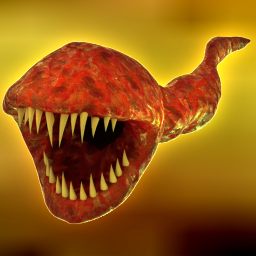
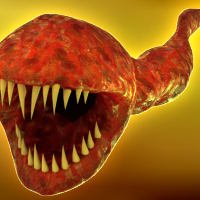
ポリゴンに画像を張り付けるまで 長かった(~5.13.2)

diff --git a/Scene1.h b/Scene1.h
@@ -44,7 +44,15 @@ public:
 			"TEXCOORD", DX12Config::VertexLayoutFormat::R32G32_FLOAT, 0,
 			DX12Config::VertexLayoutInputClassification::INPUT_CLASSIFICATION_PER_VERTEX_DATA, 0
 		));
-		mRootSignature = _game->mdx12.CreateRootSignature();
+		mTextureDescHeap = _game->mdx12.CreateDescriptorHeap(
+			DX12Config::DescriptorHeapType::SRV, DX12Config::ShaderVisibility::SHADER_VISIBLE, 1
+		);
+		mTexReadResource = _game->mdx12.LoadTexture(L"textest.png", mTextureDescHeap, 0);
+		DX12DescriptorRange range1(1, DX12Config::DescriptorHeapType::SRV, 0);
+		DX12RootParameter rootparam;
+		rootparam.mShaderVisibility = DX12Config::ShaderVisibility::SHADER_VISIBLE;
+		rootparam.mDescRanges.push_back(range1);
+		mRootSignature = _game->mdx12.CreateRootSignature(rootparam);
 		mPipeline = _game->mdx12.CreateGraphicsPipeline(
 			mVS, mPS, mLayout, DX12Config::PrimitiveTopologyType::TRIANGLESTRIP, 1, mRootSignature
 		);
@@ -72,6 +80,8 @@ public:
 		Log::OutputTrivial("Scene1 UniqueOutput");
 		mGame.mdx12.SetGraphicsPipeline(mPipeline);
 		mGame.mdx12.SetRootSignature(mRootSignature);
+		mGame.mdx12.SetDescriptorHeap(mTextureDescHeap);
+		mGame.mdx12.SetGraphicsRootDescriptorTable(0, mTextureDescHeap, 0);
 		mGame.mdx12.SetPrimitiveTopology(DX12Config::PrimitiveTopologyType::TRIANGLESTRIP);
 		mGame.mdx12.SetVertexBuffers(mResource, 0, sizeof(float) * 5*4, sizeof(float) * 5);
 		mGame.mdx12.SetIndexBuffers(mIndeces, 6);
@@ -93,6 +103,8 @@ private:
 	boost::shared_ptr<DX12ShaderObject> mVS, mPS;
 	boost::shared_ptr<DX12GraphicsPipeline> mPipeline;
 	boost::shared_ptr<DX12RootSignature> mRootSignature;
+	boost::shared_ptr<DX12DescriptorHeap> mTextureDescHeap;
+	boost::shared_ptr<DX12Resource> mTexReadResource;
 	DX12VertexLayout mLayout;
 	struct VertexLayout {
 	public:

diff --git a/DX12DescriptorHeap.cpp b/DX12DescriptorHeap.cpp
@@ -1,6 +1,7 @@
 #include "DX12DescriptorHeap.h"
 #include "DX12Device.h"
 #include "DX12Resource.h"
+#include "DX12CmdList.h"
 
 DX12DescriptorHeap::DX12DescriptorHeap(DX12Config::DescriptorHeapType _type, DX12Config::ShaderVisibility _vis, unsigned int _num, DX12Device* _device)
 	:mNum(_num), mType(_type), mShaderVisibility(_vis)
@@ -21,6 +22,29 @@ DX12DescriptorHeap::~DX12DescriptorHeap()
 D3D12_CPU_DESCRIPTOR_HANDLE DX12DescriptorHeap::GetCPUDescriptorHandle(unsigned int _n)
 {
 	auto handle = mDescHeap->GetCPUDescriptorHandleForHeapStart();
+	handle.ptr += _n * mDescriptorHandleSize;
+	return handle;
+}
+
+void DX12DescriptorHeap::SetDescriptorHeap(DX12CmdList* _cmdlist)
+{
+	ID3D12DescriptorHeap* descHeapArray = { mDescHeap.Get() };
+	_cmdlist->GetCmdList()->SetDescriptorHeaps(1,&descHeapArray);
+}
+
+const DX12Config::DescriptorHeapType DX12DescriptorHeap::GetDescriptorHeapType()
+{
+	return mType;
+}
+
+const DX12Config::ShaderVisibility DX12DescriptorHeap::GetShaderVisibility()
+{
+	return mShaderVisibility;
+}
+
+D3D12_GPU_DESCRIPTOR_HANDLE DX12DescriptorHeap::GetGPUDescriptorHandle(unsigned int _n)
+{
+	auto handle = mDescHeap->GetGPUDescriptorHandleForHeapStart();
 	handle.ptr += _n * mDescriptorHandleSize;
 	return handle;
 }

diff --git a/DX12RootSignature.h b/DX12RootSignature.h
@@ -1,14 +1,18 @@
 #pragma once
 
 #include "DX12CommonInclude.h"
+#include "DX12ConfigEnums.h"
+#include "DX12RootParameter.h"
 
 class DX12Device;
 class DX12CmdList;
 
 class DX12RootSignature final :public boost::noncopyable {
 public:
-	DX12RootSignature(DX12Device* _device);
+	DX12RootSignature(DX12Device* _device,DX12RootParameter& _rootparam);
 	ComPtr<ID3D12RootSignature> mRootSignature;
 	void SetRootSignature(DX12CmdList* _list);
 private:
+	static D3D12_SHADER_VISIBILITY mShaderVisibilityCorrespond[(unsigned char)DX12Config::ShaderVisibility::size];
+	static D3D12_DESCRIPTOR_RANGE_TYPE mDescRngTypeCorrespond[(unsigned char)DX12Config::DescriptorHeapType::size];
 };

diff --git a/DX12RootParameter.h b/DX12RootParameter.h
@@ -1,0 +1,16 @@
+#pragma once
+struct DX12DescriptorRange {
+public:
+	unsigned int mNumDescriptors;
+	DX12Config::DescriptorHeapType mType;
+	unsigned int mBaseShaderRegister;
+	DX12DescriptorRange(unsigned int _num, DX12Config::DescriptorHeapType _type, unsigned int _reg)
+		:mNumDescriptors(_num), mType(_type), mBaseShaderRegister(_reg)
+	{}
+};
+
+struct DX12RootParameter {
+public:
+	DX12Config::ShaderVisibility mShaderVisibility;
+	std::vector<DX12DescriptorRange> mDescRanges;
+};

diff --git a/DX12Factory.cpp b/DX12Factory.cpp
@@ -7,11 +7,9 @@ DX12Factory::DX12Factory()
 void DX12Factory::Initialize()
 {
 #ifdef _DEBUG
-	if (FAILED(
-		CreateDXGIFactory2(
-			DXGI_CREATE_FACTORY_DEBUG, IID_PPV_ARGS(mFactory.ReleaseAndGetAddressOf())
-		)
-	))
+	auto result = CreateDXGIFactory2(
+		DXGI_CREATE_FACTORY_DEBUG, IID_PPV_ARGS(mFactory.ReleaseAndGetAddressOf()));
+	if (FAILED(result))
 	{
 		Log::OutputCritical("IDXGIFactory6 Initialization failed");
 		throw 0;

diff --git a/SwapChainManager.cpp b/SwapChainManager.cpp
@@ -79,11 +79,16 @@ unsigned int SwapChainManager::AddSwapChain(
 	return (unsigned int)mSwapChains.size() - 1;
 }
 
-void SwapChainManager::FlipAll()
+void SwapChainManager::FlipAll(DX12Device* _dev)
 {
+	auto dev = _dev->GetDevice();
 	for (auto p : mSwapChains)
 	{
 		p->Present(1, 0);
+		auto result = dev->GetDeviceRemovedReason();
+		if (FAILED(result)) {
+			throw 0;
+		}
 	}
 }
 
